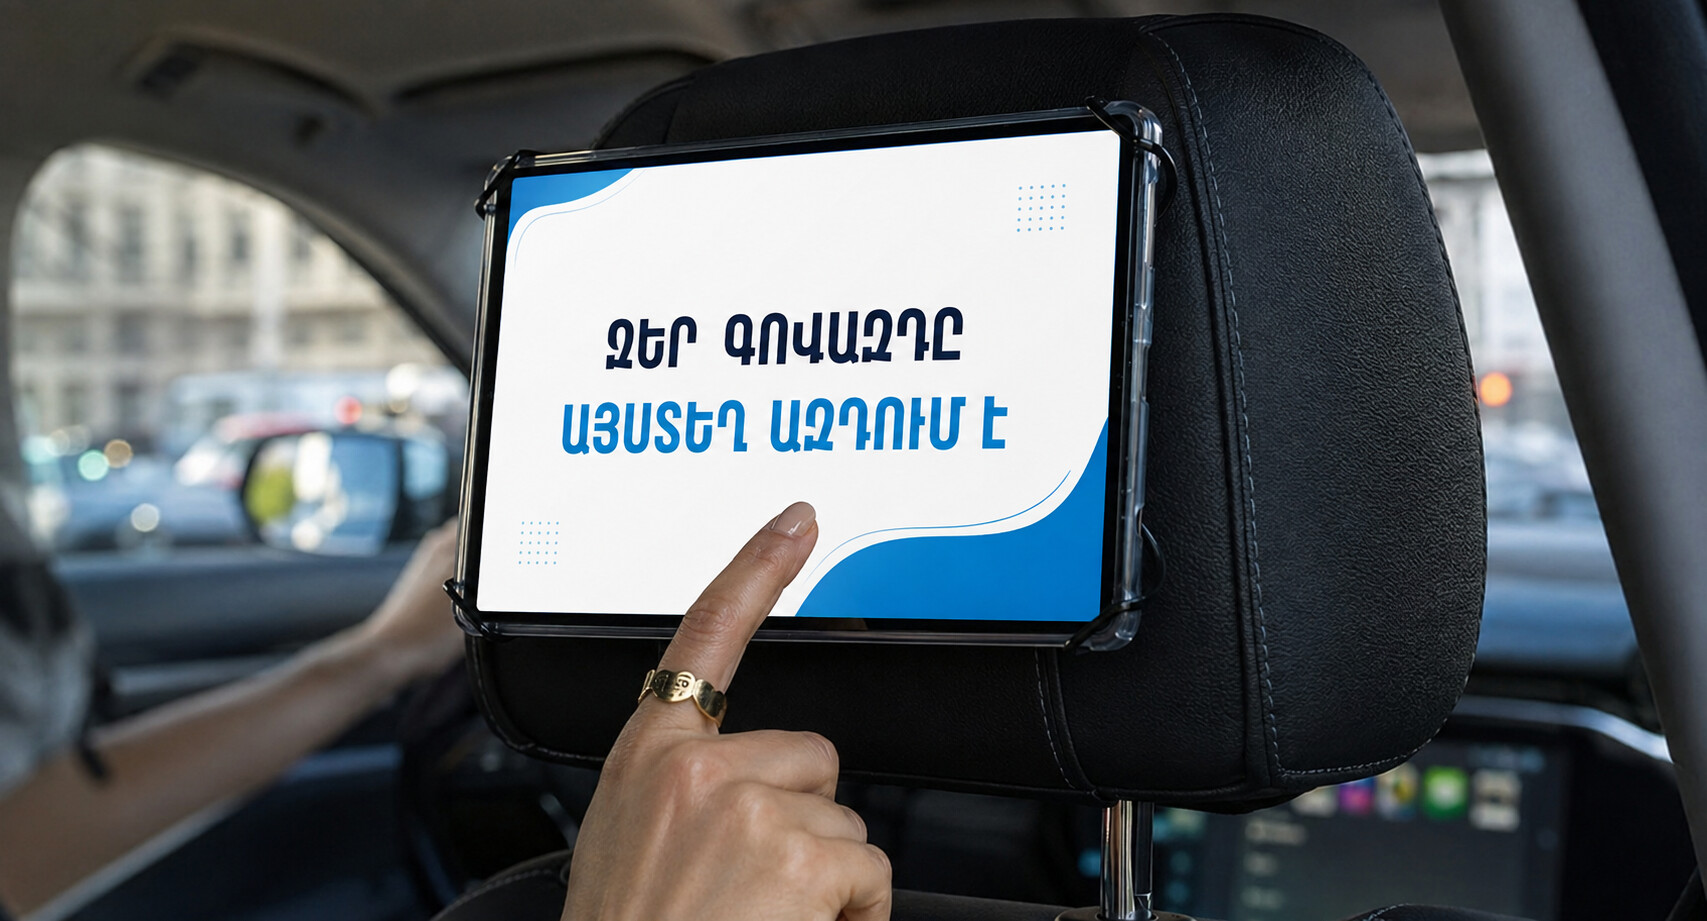
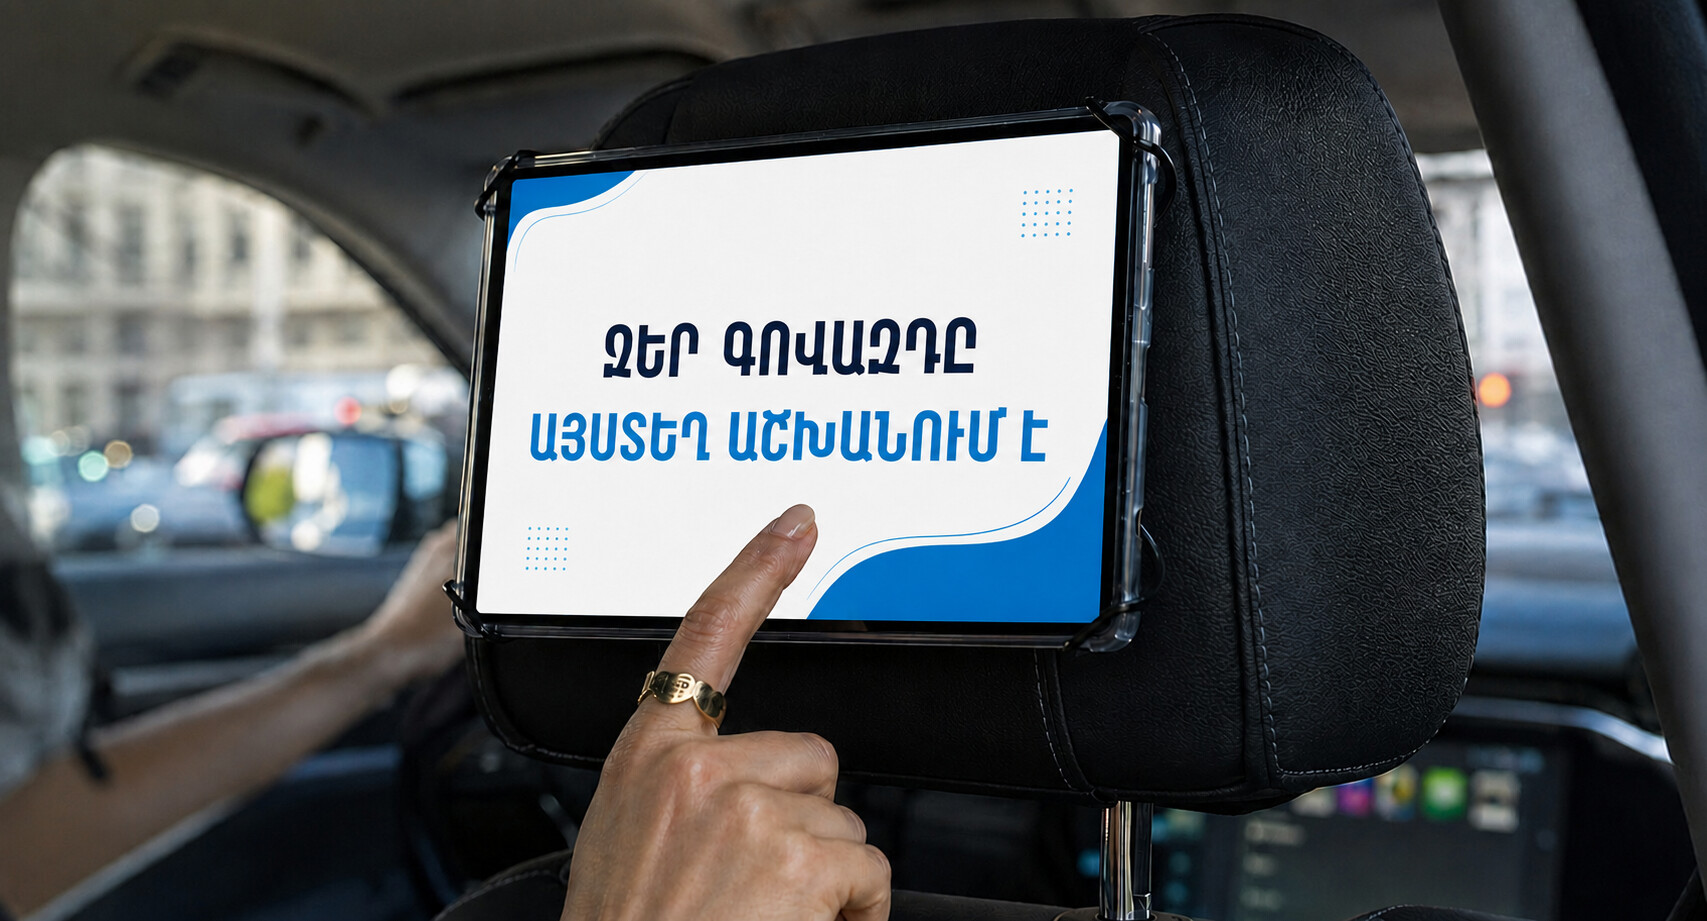
Bug Fix: Fixed the issue with the number of slides displayed in the Swiper component for different breakpoints. The slidesPerView property was incorrectly set, causing layout issues on various screen sizes. Updated the values to ensure a consistent and responsive design across all devices.

diff --git a/index.html b/index.html
@@ -157,7 +157,7 @@
                                     անցնում են վայրկյանների ընթացքում։
                                 </p>
                                 <div class="book-a-table">
-                                    <h3>Կապնվեք մեզ հետ՝</h3>
+                                    <h3>Հեռախոսահամար՝</h3>
                                     <h3><a href="tel:+37443103100" class="phone-number">(+374) 43 103-100</a></h3>
                                 </div>
                             </div>
